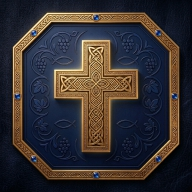
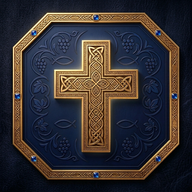
تحصين قواعد Firestore + SW v2 + أيقونات

diff --git a/service-worker.js b/service-worker.js
@@ -1,12 +1,18 @@
-/* Service Worker بسيط — الهدف الأساسي هو تفعيل خاصية "تثبيت التطبيق" (PWA)،
-   مع تخزين مبدئي بسيط للقشرة الثابتة (App Shell) فقط. البيانات نفسها (Firestore)
-   ليها آلية أوفلاين خاصة بيها (enableIndexedDbPersistence) ومش بتتخزن هنا. */
-const CACHE_NAME = 'sunday-school-shell-v1';
+/* Service Worker — تفعيل "تثبيت التطبيق" (PWA) + فتح التطبيق أوفلاين من نسخة مخزّنة للقشرة الثابتة (App Shell).
+   البيانات نفسها (Firestore) ليها آلية أوفلاين خاصة بيها (enableIndexedDbPersistence) ومش بتتخزن هنا.
+
+   الإصدار v2 — إصلاح مشكلة "النسخة القديمة العالقة":
+   النسخة الأولى (v1) كانت بتخدم الملفات من الكاش أولًا دايمًا، فبعد أي `firebase deploy` كان اللي مثبّت التطبيق
+   يفضل شايف app.js/index.html القديمة لحد ما يمسح بيانات الموقع يدويًا.
+   دلوقتي الاستراتيجية: "الشبكة أولًا" (network-first) — دايمًا نحاول نجيب أحدث نسخة من السيرفر،
+   ولو النت مقطوع نرجع للنسخة المخزّنة. فمابقاش لازم ترفع رقم النسخة (CACHE_NAME) مع كل نشر. */
+const CACHE_NAME = 'sunday-school-shell-v2';
 const APP_SHELL = [
   './',
   './index.html',
   './css/style.css',
   './js/app.js',
+  './js/firebase-config.js',
   './manifest.json',
   './icons/icon-192.png',
   './icons/icon-512.png',
@@ -14,7 +20,11 @@ const APP_SHELL = [
 
 self.addEventListener('install', (event) => {
   event.waitUntil(
-    caches.open(CACHE_NAME).then((cache) => cache.addAll(APP_SHELL)).catch(()=>{})
+    caches.open(CACHE_NAME).then((cache) =>
+      // نخزّن كل ملف لوحده: لو ملف واحد مش موجود، الباقي يتخزّن عادي
+      // (cache.addAll القديمة كانت بتفشل كلها لو ملف واحد بس 404، وكان الخطأ بيتبلع بصمت)
+      Promise.allSettled(APP_SHELL.map((url) => cache.add(url)))
+    )
   );
   self.skipWaiting();
 });
@@ -22,19 +32,61 @@ self.addEventListener('install', (event) => {
 self.addEventListener('activate', (event) => {
   event.waitUntil(
     caches.keys().then((keys) =>
-      Promise.all(keys.filter(k => k !== CACHE_NAME).map(k => caches.delete(k)))
+      Promise.all(keys.filter((k) => k !== CACHE_NAME).map((k) => caches.delete(k)))
     )
   );
   self.clients.claim();
 });
 
+async function networkFirst(event) {
+  const req = event.request;
+  const cache = await caches.open(CACHE_NAME);
+  try {
+    // cache:'no-cache' = نتأكد من السيرفر (طلب شرطي رخيص، 304 لو ما اتغيرش) بدل ما نصدّق كاش المتصفح
+    // (Firebase Hosting بيحط max-age=3600 افتراضيًا، فكان ممكن نشوف نسخة عمرها ساعة)
+    const fresh = await fetch(req.url, { cache: 'no-cache', credentials: 'same-origin' });
+    if (fresh && fresh.ok && fresh.type === 'basic') {
+      event.waitUntil(cache.put(req.url, fresh.clone()));
+    }
+    return fresh;
+  } catch (err) {
+    // أوفلاين: أحدث نسخة مخزّنة عندنا
+    const cached = await cache.match(req.url, { ignoreSearch: true });
+    if (cached) return cached;
+    if (req.mode === 'navigate') {
+      const shell = (await cache.match('./index.html')) || (await cache.match('./'));
+      if (shell) return shell;
+    }
+    return Response.error();
+  }
+}
+
+async function cacheFirst(event) {
+  const req = event.request;
+  const cache = await caches.open(CACHE_NAME);
+  const cached = await cache.match(req.url);
+  if (cached) return cached;
+  const fresh = await fetch(req.url, { credentials: 'same-origin' });
+  if (fresh && fresh.ok && fresh.type === 'basic') {
+    event.waitUntil(cache.put(req.url, fresh.clone()));
+  }
+  return fresh;
+}
+
 self.addEventListener('fetch', (event) => {
   const req = event.request;
-  // Firebase/Firestore وأي طلبات API: خليها تروح للنت زي ما هي دايمًا، منخزنش رد منها هنا خالص
-  if (req.method !== 'GET' || req.url.includes('firestore.googleapis.com') || req.url.includes('googleapis.com') || req.url.includes('gstatic.com')) {
+  if (req.method !== 'GET') return;
+  const url = new URL(req.url);
+  // أي حاجة مش من نفس موقعنا (Firebase/Firestore/Google Fonts/CDN...) تروح للنت زي ما هي — منخزنش رد منها هنا
+  if (url.origin !== self.location.origin) return;
+  // مسارات Firebase Hosting المحجوزة (/__/auth/..., /__/firebase/init.json) — ماتتدخلش فيها
+  if (url.pathname.startsWith('/__/')) return;
+
+  // الأيقونات ما بتتغيرش كتير: الكاش أولًا أسرع وأوفر
+  if (url.pathname.includes('/icons/')) {
+    event.respondWith(cacheFirst(event).catch(() => Response.error()));
     return;
   }
-  event.respondWith(
-    caches.match(req).then((cached) => cached || fetch(req).catch(() => cached))
-  );
+  // باقي القشرة (HTML/JS/CSS/manifest): الشبكة أولًا عشان التحديثات توصل فورًا
+  event.respondWith(networkFirst(event));
 });
